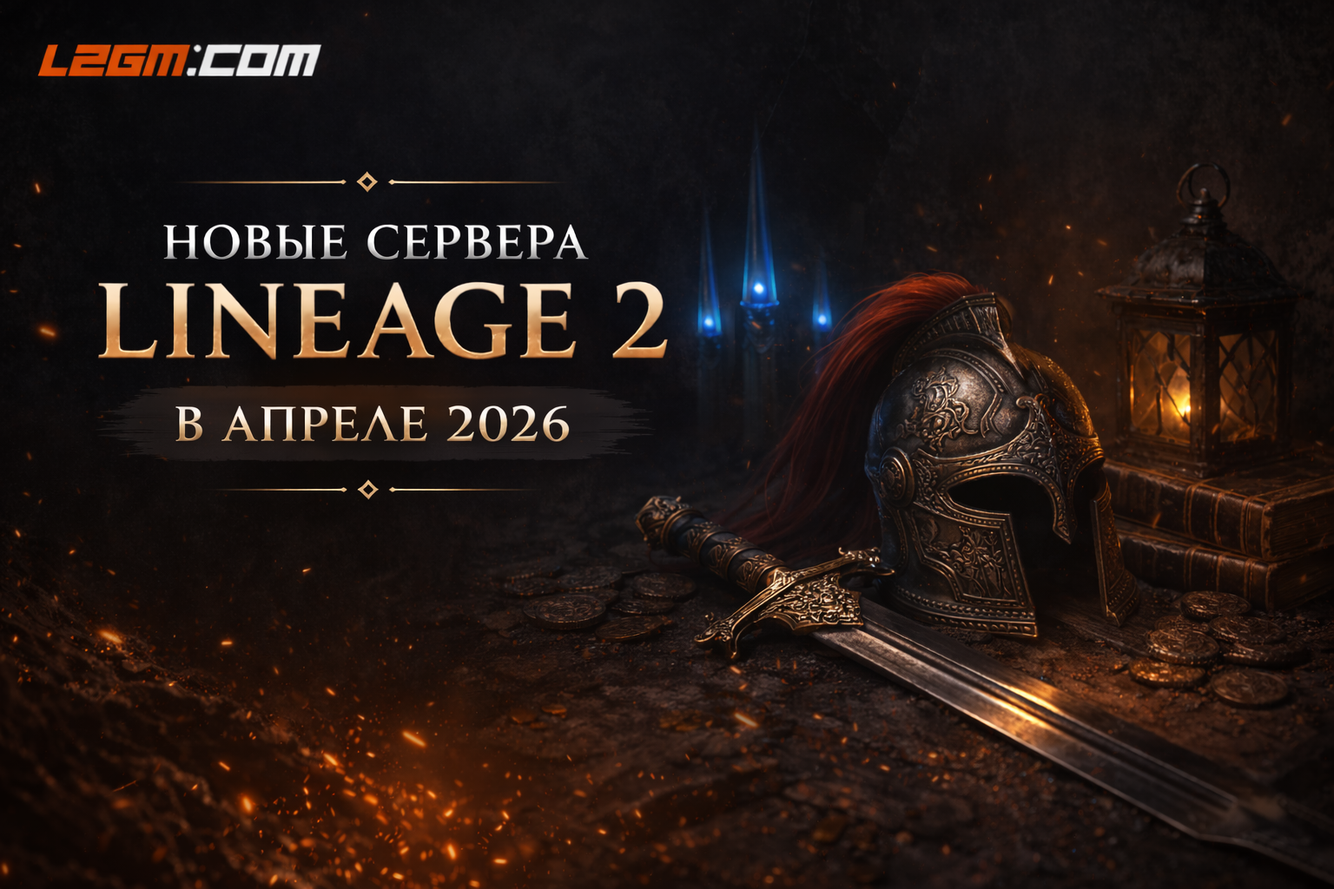
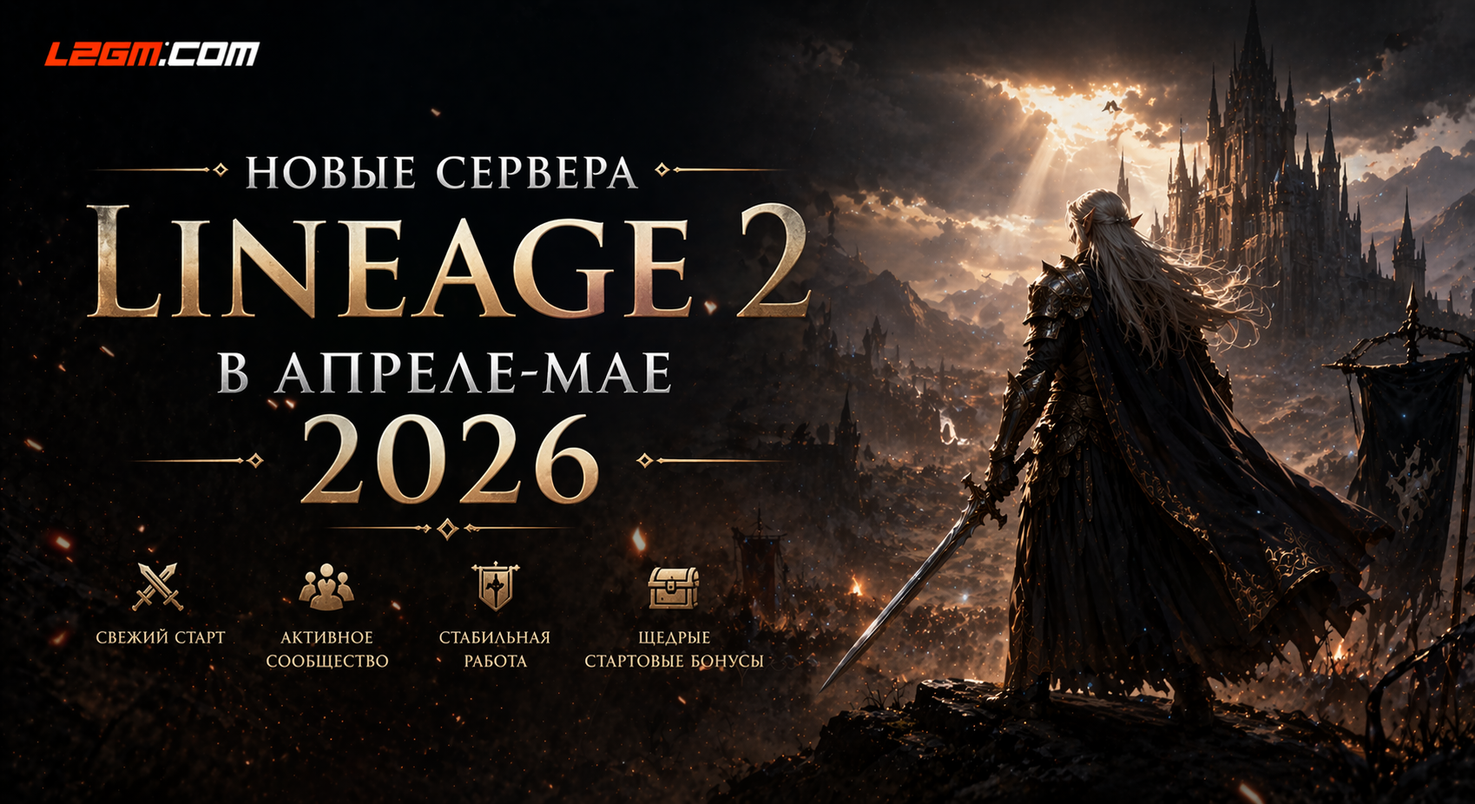
026: Новая статья блога — гайд для новичка в Lineage 2 2026
- content/blog/gajd-dlya-novichka-lineage-2-2026.md (~1500 слов, 5 FAQ)
- Hero-картинка beginner-guide.png
- Добавлен маршрут в nuxt.config prerender
- Внутренние ссылки на /chronicle/interlude|essence|classic, /rate/x50|x100, все существующие блог-статьи
- Обновлена april-2026.png

diff --git a/nuxt.config.ts b/nuxt.config.ts
@@ -167,6 +167,7 @@ export default defineNuxtConfig({
         '/blog/kak-vybrat-rejt-servera/',
         '/blog/chto-takoe-pvp-server-lineage-2/',
         '/blog/novye-servera-lineage-2-aprel-2026/',
+        '/blog/gajd-dlya-novichka-lineage-2-2026/',
         '/placement/',
         '/about/',
         '/add-server/',

diff --git a/content/blog/gajd-dlya-novichka-lineage-2-2026.md b/content/blog/gajd-dlya-novichka-lineage-2-2026.md
@@ -1,0 +1,155 @@
+---
+title: 'Гайд для новичка: с чего начать в Lineage 2 в 2026 году'
+description: 'Пошаговый гайд для новичка в Lineage 2 — как выбрать первый сервер, хронику и рейт, какой класс взять, что делать на старте и чего избегать. Актуально на 2026 год.'
+category: 'Гайды'
+image: '/images/blog/beginner-guide.png'
+date: 2026-04-22
+slug: 'gajd-dlya-novichka-lineage-2-2026'
+faq:
+  - q: 'С какой хроники начинать новичку в Lineage 2?'
+    a: 'Для первого захода в Lineage 2 в 2026 году мы рекомендуем Interlude — это самая популярная хроника с огромным комьюнити, множеством активных серверов и обилием гайдов. Баланс классов проверен временем, контент насыщенный, но не перегруженный механиками. Если вам хочется чего-то более современного — попробуйте Essence: эта хроника адаптирована под одиночную игру и понятнее на старте.'
+  - q: 'Какой класс выбрать новичку?'
+    a: 'Новичку лучше всего подойдут классы с автономным геймплеем: Dark Elf Spellhowler (SH), Human Destroyer, Elf Elemental Summoner (ES) или Orc Tyrant. Эти классы могут эффективно прокачиваться соло, не требуют сложных ротаций скиллов и прощают ошибки. Избегайте на первый раз саппорт-классов (Prophet, Elven Elder) — они сильны в пати, но новичку без группы будет скучно.'
+  - q: 'Сколько времени нужно, чтобы разобраться в Lineage 2?'
+    a: 'Базовое понимание механик — 2-3 часа активной игры. Комфортное ощущение класса — 1-2 недели. Полное понимание экономики, крафта, PvP и эндгейма — 1-2 месяца. Lineage 2 — глубокая игра, не пытайтесь выучить всё сразу. Начните с простого mid-rate x50 сервера, пройдите первые 40 уровней — и большинство вопросов отпадёт само.'
+  - q: 'Нужно ли донатить на старте?'
+    a: 'На большинстве серверов донат не обязателен, но ускоряет прокачку и даёт косметические преимущества. Избегайте серверов с pay-to-win донат-магазином — там без вложений невозможно конкурировать в PvP. Ищите проекты, где за реальные деньги продаются только буст рун, косметика и премиум-аккаунт, но не топовая экипировка и не заточки +16.'
+  - q: 'Что купить в магазине на старте, если есть стартовые адены?'
+    a: 'Первым делом купите No-Grade оружие под ваш класс (лучшее доступное), Soulshots и Spiritshots на час-два игры, 10-20 зелий жизни и телепорты в базовые города. Не тратьте все адены сразу — оставьте 20-30 тысяч на случай, если нужно будет экстренно телепортироваться или купить квестовый предмет. После 20 lvl ситуация кардинально поменяется, и стартовые покупки будут неактуальны.'
+---
+
+Lineage 2 в 2026 году остаётся одной из самых играбельных ММО старой школы — с живым онлайном, активными комьюнити и десятками свежих серверов каждый месяц. Но для новичка порог входа по-прежнему высокий: хроники, рейты, классы, гранды, заточки, саб-классы, дуалы, олимпиада — глаза разбегаются ещё до первого входа в игру.
+
+Этот гайд — пошаговая навигация от «ничего не знаю про Л2» до «играю и понимаю, что происходит». Без воды, без ностальгии, без «а вот раньше…». Только то, что реально нужно на старте в 2026 году.
+
+## Шаг 1. Поймите, что такое Lineage 2
+
+Lineage 2 — это корейская ММО, вышедшая в 2003 году, с фокусом на PvP, клановые войны и осады замков. За два десятилетия игра прошла через множество обновлений (хроники), и сейчас существует в двух параллельных вселенных:
+
+- **Официальные серверы NCSoft и Innova** (Essence, Classic, Core) — актуальная версия, платная подписка или донат
+- **Частные серверы (private, pserver)** — запущенные по утёкшим сборкам энтузиастами, обычно бесплатные, с множеством хроник на выбор
+
+Большинство игроков СНГ играют именно на **частных серверах**. Их преимущества — бесплатный вход, огромный выбор настроек и хроник, возможность попробовать разные форматы без обязательств. Минус один — сервер может закрыться в любой момент, прогресс сохранить нельзя.
+
+Если это ваш первый заход — начинайте именно с частника. Подходящие проекты в актуальных запусках собраны на [главной странице L2GM](/).
+
+## Шаг 2. Выберите хронику
+
+Хроника — это версия игры, определяющая набор классов, карту, контент и общие механики. За 20 лет вышло около десятка основных хроник, но реально актуальны сейчас 3-4.
+
+### Для новичка в 2026 году
+
+**[Interlude](/chronicle/interlude/)** — классика, самый понятный выбор. Баланс классов считается эталонным, контент и прокачка выверены тысячами часов сообщества. Гайдов по Interlude — больше, чем по всем остальным хроникам вместе взятым. Если сомневаетесь — берите её.
+
+**[Essence](/chronicle/essence/)** — современная хроника с автобаттл-системой, упрощённым интерфейсом и фокусом на одиночную игру. Идеально подходит, если вы не готовы тратить часы на поиск пати.
+
+**[Classic](/chronicle/classic/)** — ремейк самой первой Л2. Подходит тем, кто хочет максимально аутентичный опыт «как было в 2004-м», но готов к долгому хардкорному гринду.
+
+Какую **не** стоит брать первой:
+
+- **High Five / High Five Plus** — хроника перегружена механиками (сертификаты, Vitality, subclass certification), новичку на старте это сломает мозг
+- **Epilogue / Gracia** — старые редкие хроники, мало серверов, мало актуальной информации
+- **C4 / Kamael** — специфические форматы для ветеранов
+
+Разница между хрониками подробно разобрана в статье [Interlude vs High Five](/blog/interlude-vs-high-five/).
+
+## Шаг 3. Выберите рейт
+
+Рейт — это множитель скорости прокачки. На **x1** путь до 80 уровня занимает 200+ часов, на **x50** — 2-3 недели, на **x1200** — несколько часов.
+
+### Рекомендация для первого сервера
+
+Берите **[mid-rate x50](/rate/x50/)** или **[x100](/rate/x100/)**. Это золотая середина: прогресс ощущается, но не требует 8 часов в день. Весь стандартный путь проходится за 2-3 недели активной игры.
+
+**Не берите на первый раз:**
+
+- **x1–x3** — можете выгореть от гринда, не поняв и половины игровых механик
+- **x1200+** — пролетите весь контент за сутки и так и не поймёте, за что людям нравится Lineage 2
+- **x10000 и выше** — это PvP-арены для ветеранов, без знания классов и скиллов вас будут выносить за секунды
+
+Полный разбор рейтов — в гайде [как выбрать рейт сервера](/blog/kak-vybrat-rejt-servera/).
+
+## Шаг 4. Выберите класс
+
+Классов в Lineage 2 много (в Interlude — 31 топ-класс), и каждый играется по-своему. Чтобы не потеряться на старте, вот список из проверенных «новичковых» классов.
+
+### Топ классов для новичка
+
+**Dark Elf Spellhowler (SH)** — маг урона. Высокий DPS, самодостаточен на прокачке, мощный в PvP. Минус — хрупкий и быстро умирает без положения.
+
+**Human Destroyer** — танк-берсерк с двуручкой. Простая механика: идёшь, бьёшь, выживаешь. В PvP снимает половину здоровья одним ударом Frenzy. Отличный первый класс.
+
+**Elf Elemental Summoner (ES)** — маг-призыватель. Прокачка в одиночку очень комфортная: саммон фармит за вас, пока вы пьёте чай. В PvP — крепкий середнячок.
+
+**Orc Tyrant** — монах-рукопашник. Бесшовная прокачка без SS, мощные удары, выживаемость. В PvP — гроза магов.
+
+**Human Gladiator** — воин с парными мечами. Мощный PvP-класс с огромным количеством скиллов-стансов. Чуть сложнее остальных, но окупается на эндгейме.
+
+### Каких классов избегать новичку
+
+- **Prophet, Elven Elder, Shilien Elder** — саппорты, без пати скучно и медленно
+- **Overlord, Warcryer** — специфические саппорты, бесполезны соло
+- **Crafter Dwarf (Warsmith)** — экономическая роль, не про PvE и не про PvP
+- **Spoiler Dwarf** — интересный класс, но требует знания игры и мобов
+
+## Шаг 5. Первые 2 часа в игре
+
+После создания персонажа и входа в мир многие теряются. Вот короткий чек-лист на первые часы:
+
+1. **Заберите стартовый набор** — на большинстве частных серверов в почте или в NPC лежат стартовые предметы. Обязательно заберите.
+2. **Купите Soulshots / Spiritshots** — шоты в разы увеличивают урон. Без них вы фармите в 3-4 раза медленнее. Минимум — купить на 1-2 часа игры.
+3. **Возьмите стартовые квесты** — на новичковой локации есть цепочка квестов на 10-15 уровней, они дают адены, опыт и предметы.
+4. **Прокачайтесь до 20 lvl по «гайду класса»** — у каждого класса есть оптимальный порядок мобов для фарма. Загуглите «[класс] leveling guide [хроника]».
+5. **Не тратьте все адены** — оставьте 20-30k на «чёрный день» (телепорт, экстренное зелье, квестовый предмет).
+6. **В чате /cfg или /party** — поищите пати, спросите про клан. Социализация на старте ускоряет всё в разы.
+
+## Шаг 6. Выучите ключевые понятия
+
+Не пытайтесь изучить всё сразу. Вот минимум, без которого нельзя на старте:
+
+- **Grade экипировки** — No-Grade → D → C → B → A → S. Чем выше grade, тем сильнее предмет, но и тем дороже.
+- **Soulshots (SS) / Spiritshots (BSS)** — расходники, усиливающие удары. Обязательно использовать всегда.
+- **Enchant / заточка** — улучшение предмета с +1 до +16. Шансы рандомные, можно сжечь вещь.
+- **Party / пати** — группа до 9 человек. Бонус к опыту в пати — до +200%, это ключевой способ быстрой прокачки после 40 lvl.
+- **Clan / клан** — объединение игроков, даёт доступ к клановым скиллам, замкам, осадам.
+- **Olympiad / Олимпиада** — еженедельный PvP-турнир 1v1, даёт престиж и предметы на эндгейме.
+- **Raid Boss (RB)** — мировые боссы, с которых падают редкие предметы. Фармятся группами или кланами.
+
+Полный разбор PvP-части — в статье [что такое PvP-сервер Lineage 2](/blog/chto-takoe-pvp-server-lineage-2/).
+
+## Шаг 7. Что делать после 40 lvl
+
+Первые 40 уровней вы пройдёте почти в одиночку, и это нормально — они задуманы как обучение. Но после 40 Lineage 2 превращается в групповую игру, и стратегия меняется:
+
+- **Сделайте первую профессию** (30 lvl) — это обязательный квест, открывающий ключевые скиллы класса
+- **Найдите стабильную пати** — на эндгейм-локациях (Cruma Tower, Catacombs, Necropolis) соло-прокачка почти невозможна
+- **Вступите в клан** — без клана вы теряете доступ к клан-скиллам, клановым квестам и защите в PvP-зонах
+- **Начните копить на D-grade → C-grade** — к 40 lvl уже пора обновлять экипировку
+- **Освойте саб-класс и дуал** (после 76 lvl) — это отдельные профессии на одном персонаже, серьёзно усиливают в PvP и PvE
+
+## Главные ошибки новичков
+
+**1. Выбрали low-rate x1 «для атмосферы»** — и забросили через неделю. Честно оцените, сколько часов вы реально готовы играть.
+
+**2. Взяли саппорта первым классом** — прокачка до 40 lvl в одиночку превратилась в пытку. Саппорт-классы на вторую-третью прокачку.
+
+**3. Слили все стартовые адены на донат-бижу** — остались без шотов, фарм превратился в ад.
+
+**4. Не используют Soulshots** — урон в 3 раза меньше, прокачка медленнее, пати не берут. Шоты — обязательный расходник, не экономьте на них.
+
+**5. Играют без пати** — после 40 lvl это самоубийство. Ищите людей через /cfg, форум сервера, Discord.
+
+**6. Пытаются выучить всё сразу** — Lineage 2 — глубокая игра, и изучать её лучше по мере появления вопросов. Не читайте гайды на эндгейм, когда вы на 15 lvl.
+
+## Итог: чек-лист первого запуска
+
+Если всё выше показалось сложным — вот сжатая версия:
+
+1. Хроника — **[Interlude](/chronicle/interlude/)**
+2. Рейт — **[x50](/rate/x50/)** или **[x100](/rate/x100/)**
+3. Класс — **Spellhowler**, **Destroyer** или **Elemental Summoner**
+4. На старте — купите шоты, возьмите квесты, не тратьте все адены
+5. К 40 lvl — найдите пати и клан
+6. Остальное разберётесь по ходу
+
+Актуальные свежие серверы с датами старта — на [главной странице L2GM](/). Там же можно сразу отфильтровать проекты по хронике и рейту под ваш сценарий. А для глубокого погружения начните с [топа серверов Lineage 2 в 2026 году](/blog/top-serverov-lineage-2-2026/) — там разобраны конкретные проекты с плюсами и минусами каждого.
